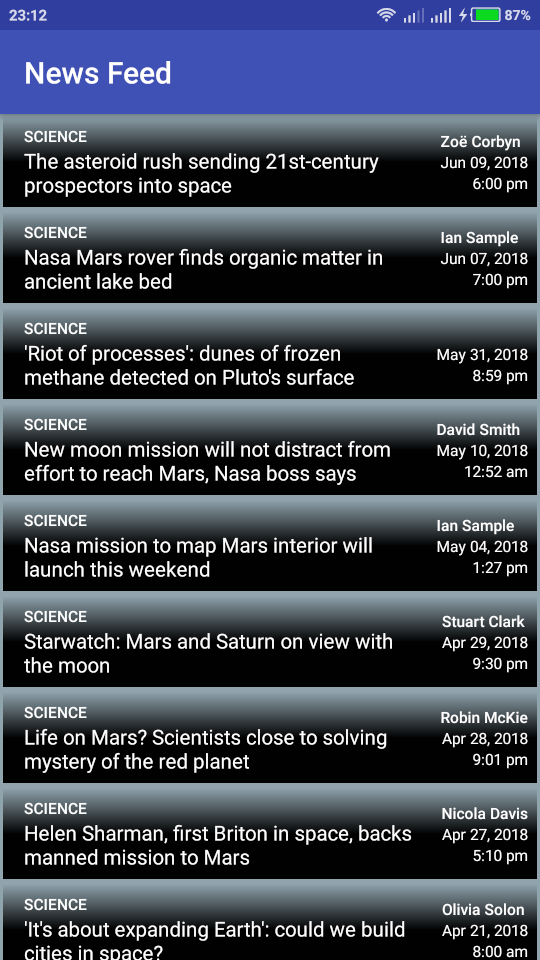
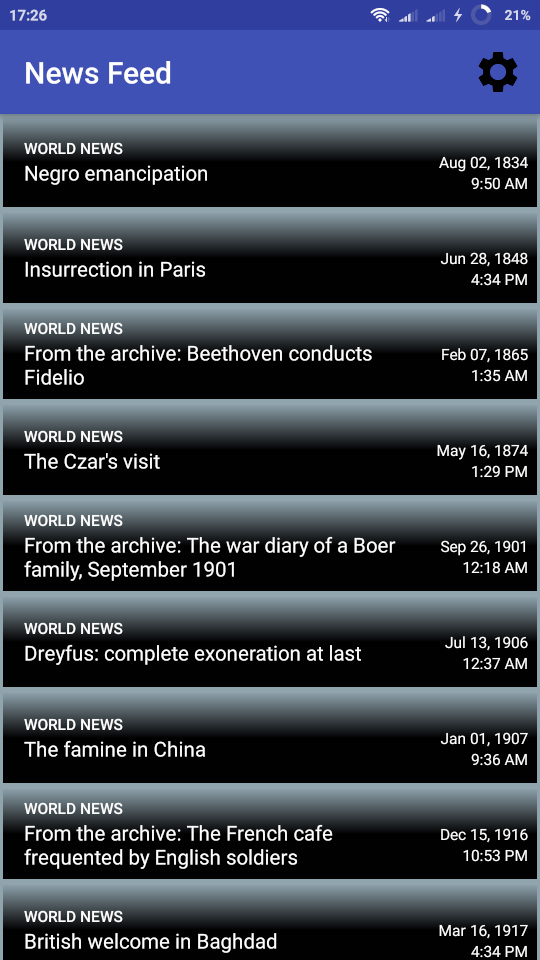
images

diff --git a/README.md b/README.md
@@ -1,5 +1,5 @@
 # ABND: News App, Stage 2
 UDACITY 2018 - (v3) News App, Stage 2
 
-![Portrait, 50%](https://github.com/sevrage/News-App-Stage-2/blob/master/portrait.png)
-![Landscape](https://github.com/sevrage/News-App-Stage-2/blob/master/landscape.png)
+![Main, 50%](https://github.com/sevrage/News-App-Stage-2/blob/master/portrait.png)
+![Settings, 50%](https://github.com/sevrage/News-App-Stage-2/blob/master/portrait2.png)
